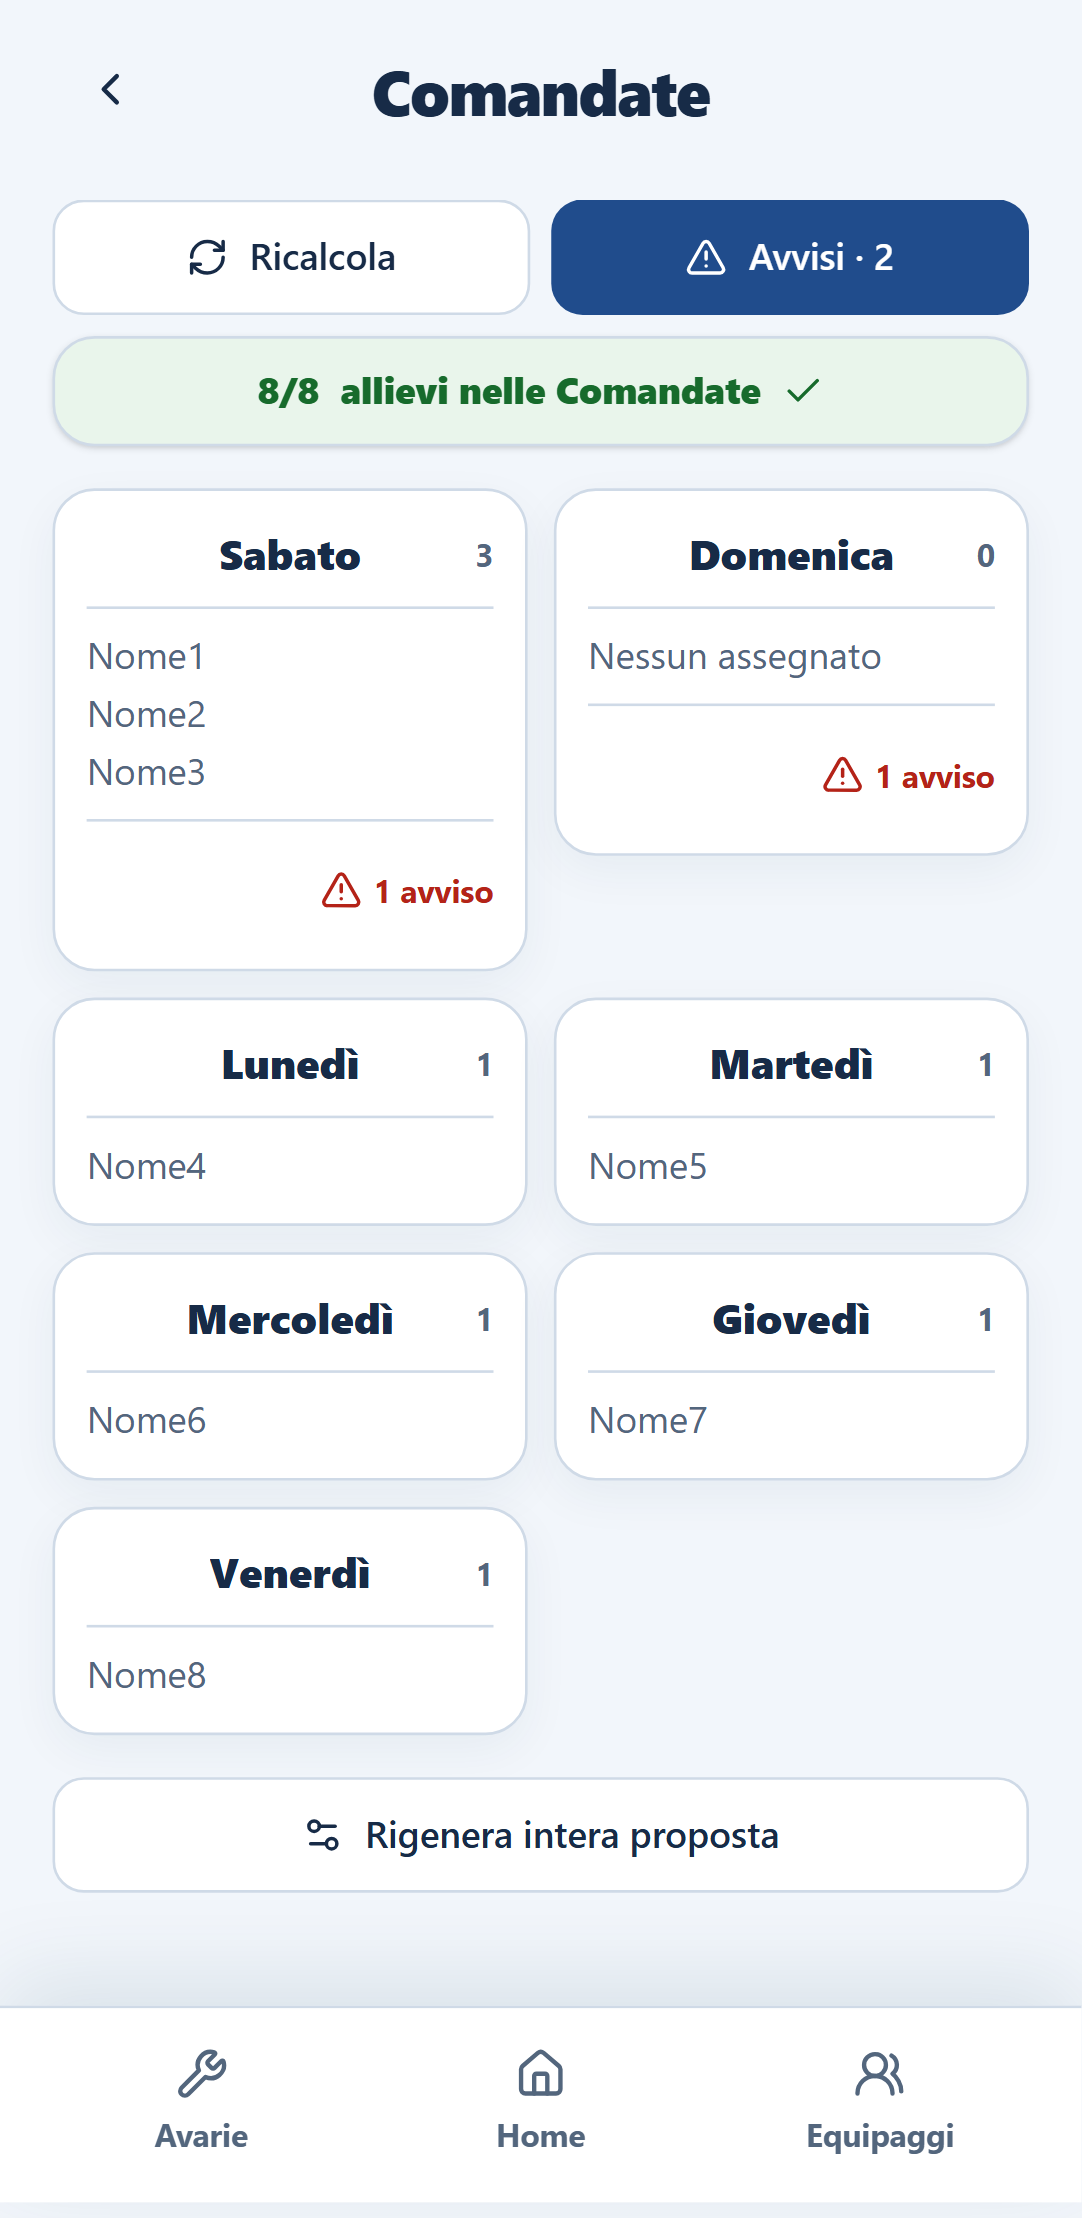
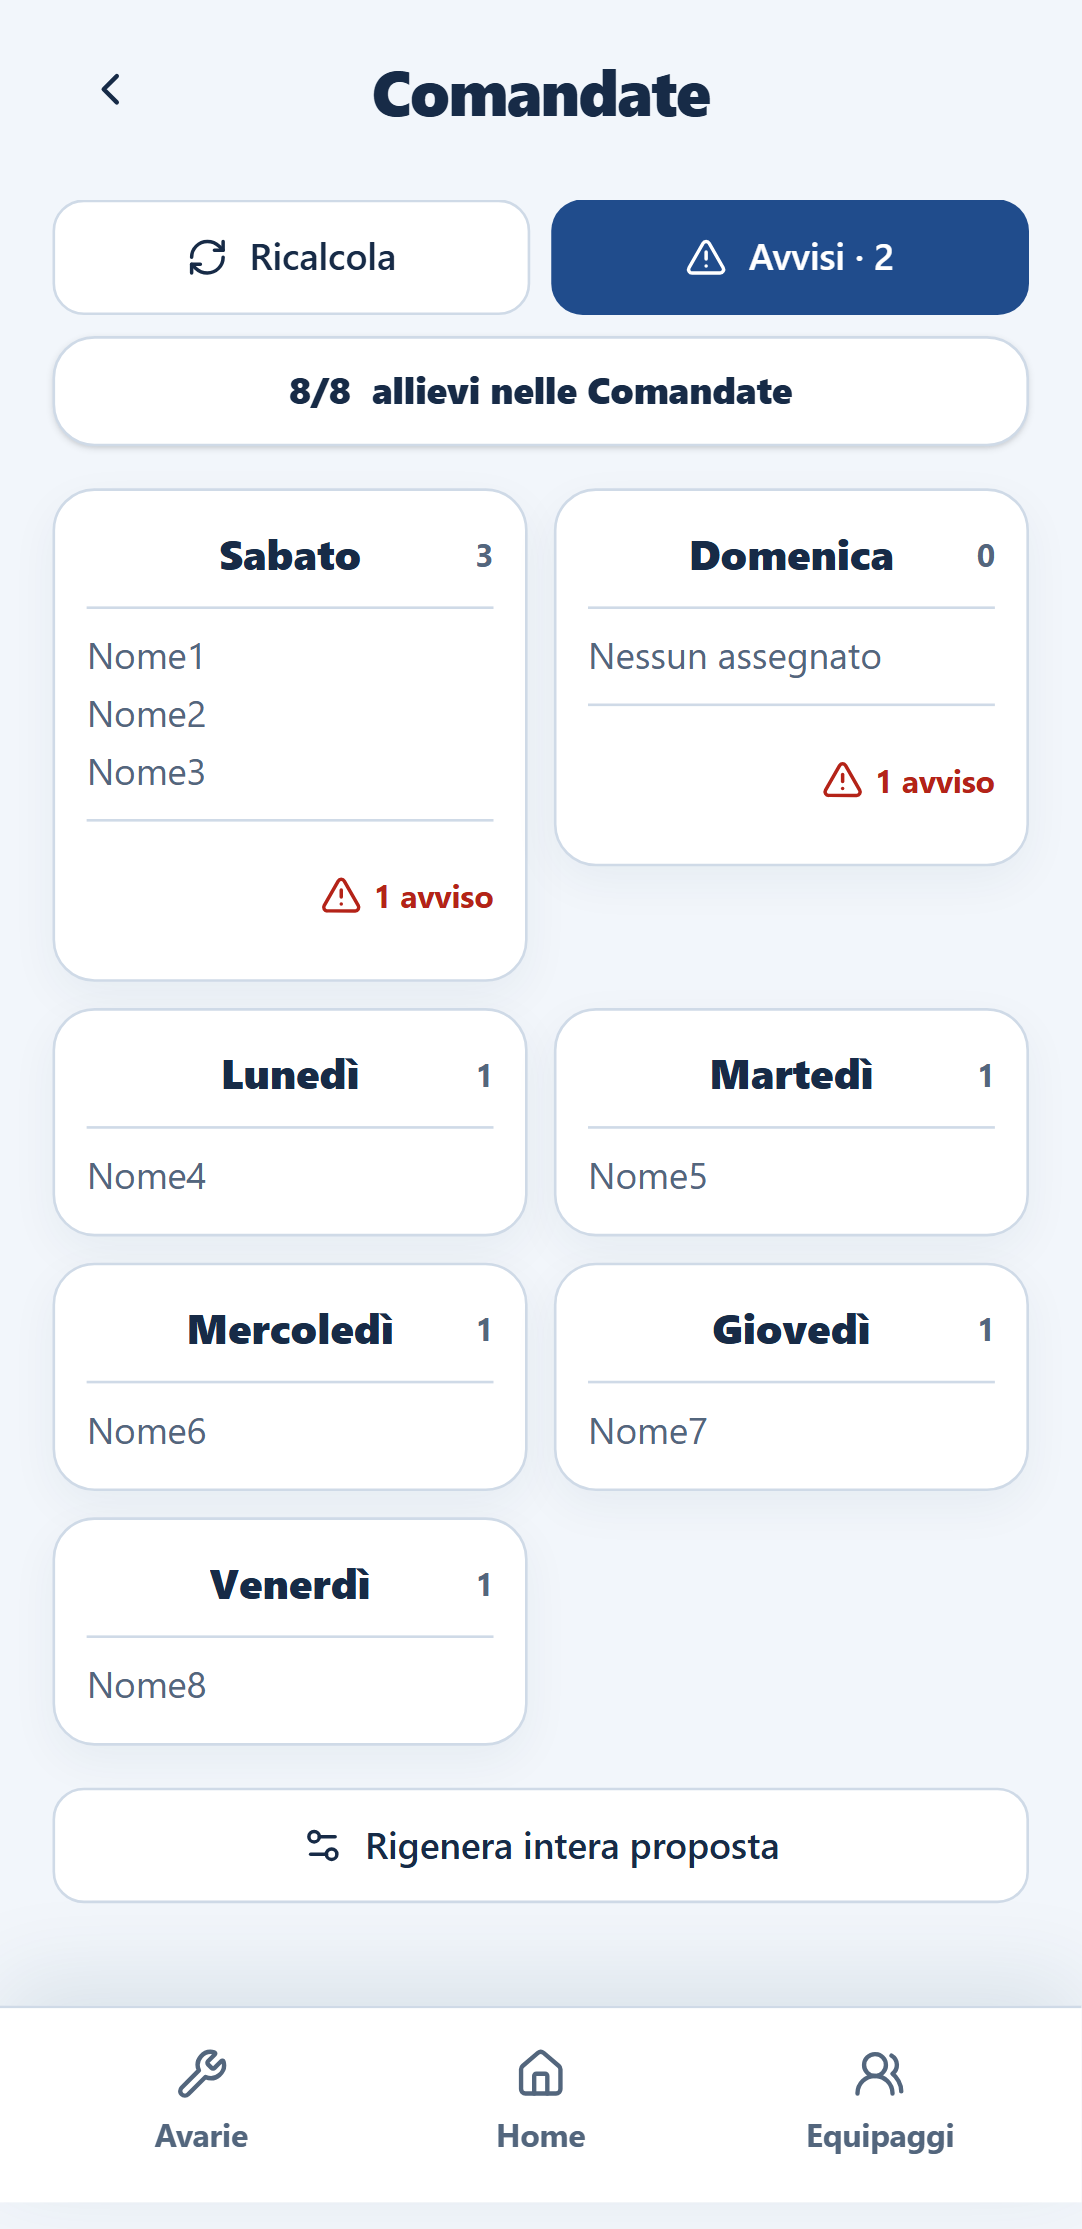
fix: satisfy U08 field review

diff --git a/src/features/duties/DutyManagement.tsx b/src/features/duties/DutyManagement.tsx
@@ -17,6 +17,7 @@ import {
   getDutyCoverage,
   getDutyDistributionRequirement,
   getDutyWarnings,
+  getVisibleDutyWarnings,
   groupDutyStudentsForDay,
   setStudentDutyForDay,
   type DutyAssignment,
@@ -577,6 +578,7 @@ function StudentAssignmentCard({
   entry,
   allStudents,
   completedDayIds,
+  referenceDate,
   current,
   completed,
   saving,
@@ -586,6 +588,7 @@ function StudentAssignmentCard({
   entry: DutyStudentDayGroupEntry
   allStudents: StudentRecord[]
   completedDayIds: readonly DutyDayId[]
+  referenceDate: string
   current: boolean
   completed: boolean
   saving: boolean
@@ -597,11 +600,11 @@ function StudentAssignmentCard({
   const hasMultipleDays = dayIds.length > 1
   return (
     <article
-      className={`flex min-w-0 items-center gap-1 rounded-2xl border bg-card p-1.5 shadow-[0_4px_14px_rgb(6_59_82/0.04)] ${hasMultipleDays ? "col-span-2" : ""}`}
+      className={`flex min-w-0 items-center gap-1 rounded-2xl border bg-card p-1.5 shadow-[0_4px_14px_rgb(6_59_82/0.04)] max-[350px]:gap-[2px] max-[350px]:p-[4px] ${hasMultipleDays ? "col-span-2 max-[350px]:col-span-1" : ""}`}
     >
       {current ? (
         <span
-          className="flex min-h-10 min-w-0 flex-1 items-center truncate px-1 text-left text-sm font-bold"
+          className="flex min-h-10 min-w-0 flex-1 items-center truncate px-1 text-left text-sm font-bold max-[350px]:min-h-[40px] max-[350px]:break-all max-[350px]:px-[2px] max-[350px]:whitespace-normal"
           title={name}
         >
           {name}
@@ -609,18 +612,28 @@ function StudentAssignmentCard({
       ) : (
         <button
           aria-label={name}
-          className="flex min-h-10 min-w-0 flex-1 items-center gap-1 rounded-xl px-1 text-left text-sm font-bold outline-none focus-visible:ring-3 focus-visible:ring-ring/40 max-[350px]:rounded-none max-[350px]:text-primary max-[350px]:shadow-[inset_2px_0_0_#b9d4ec]"
+          className="flex min-h-10 min-w-0 flex-1 items-center gap-1 rounded-xl px-1 text-left text-sm font-bold outline-none focus-visible:ring-3 focus-visible:ring-ring/40 max-[350px]:min-h-[40px] max-[350px]:min-w-[40px] max-[350px]:gap-[2px] max-[350px]:rounded-none max-[350px]:px-[2px] max-[350px]:text-primary max-[350px]:shadow-[inset_2px_0_0_#b9d4ec]"
           disabled={completed || saving}
           onClick={onAdd}
           title={name}
           type="button"
         >
-          <span className="min-w-0 flex-1 truncate">{name}</span>
+          <span className="min-w-0 flex-1 truncate max-[350px]:break-all max-[350px]:whitespace-normal">
+            {name}
+          </span>
           <Plus
             aria-hidden="true"
             className="size-4 shrink-0 text-primary max-[350px]:hidden"
           />
         </button>
+      )}
+      {isMinor(student.dateOfBirth, referenceDate) && (
+        <span
+          aria-label={`${name}, minorenne`}
+          className="grid size-4 shrink-0 place-items-center rounded-full bg-[#d33a4a] text-[9px] font-black text-white max-[350px]:size-[16px]"
+        >
+          M
+        </span>
       )}
       {student.active === 0 && (
         <span className="hidden shrink-0 text-[10px] font-bold text-muted-foreground min-[520px]:inline">
@@ -634,12 +647,12 @@ function StudentAssignmentCard({
           role="img"
         />
       )}
-      <div className="flex shrink-0 items-center gap-0.5">
+      <div className="flex shrink-0 items-center gap-0.5 max-[350px]:gap-[2px]">
         {dayIds.map((assignedDayId) => (
           <span className="flex items-center gap-0.5" key={assignedDayId}>
             <span
               aria-label={`${getDayLabel(assignedDayId)} assegnato`}
-              className="rounded-md bg-muted px-1.5 py-1 text-[10px] font-black text-muted-foreground"
+              className="rounded-md bg-muted px-1.5 py-1 text-[10px] font-black text-muted-foreground max-[350px]:px-[4px] max-[350px]:py-[2px]"
               title={getDayLabel(assignedDayId)}
             >
               {SHORT_DAY_LABELS[assignedDayId]}
@@ -647,7 +660,7 @@ function StudentAssignmentCard({
             {!completedDayIds.includes(assignedDayId) ? (
               <button
                 aria-label={`Rimuovi ${name} da ${getDayLabel(assignedDayId)}`}
-                className="grid size-10 place-items-center rounded-xl text-[#b42318] outline-none hover:bg-[#fff1ed] focus-visible:ring-3 focus-visible:ring-ring/40 disabled:opacity-40"
+                className="grid size-10 place-items-center rounded-xl text-[#b42318] outline-none hover:bg-[#fff1ed] focus-visible:ring-3 focus-visible:ring-ring/40 disabled:opacity-40 max-[350px]:size-[40px]"
                 disabled={completed || saving}
                 onClick={() => onRemove(assignedDayId)}
                 type="button"
@@ -668,6 +681,7 @@ function DayEditor({
   assignments,
   completedDayIds,
   completed,
+  referenceDate,
   onBack,
   onSave,
   onComplete,
@@ -677,6 +691,7 @@ function DayEditor({
   assignments: DutyAssignment[]
   completedDayIds: readonly DutyDayId[]
   completed: boolean
+  referenceDate: string
   onBack: () => void
   onSave: (assignments: DutyAssignment[]) => Promise<void>
   onComplete: () => Promise<void>
@@ -729,7 +744,7 @@ function DayEditor({
 
   function renderCards(entries: DutyStudentDayGroupEntry[], current: boolean) {
     return entries.length > 0 ? (
-      <div className="grid grid-cols-2 items-start gap-2">
+      <div className="grid grid-cols-2 items-start gap-2 max-[350px]:grid-cols-1 max-[350px]:gap-[4px]">
         {entries.map((entry) => (
           <StudentAssignmentCard
             allStudents={students}
@@ -745,6 +760,7 @@ function DayEditor({
               void updateAssignment(targetDayId, entry.student.id, false)
             }
             saving={saving}
+            referenceDate={referenceDate}
           />
         ))}
       </div>
@@ -971,10 +987,11 @@ export function DutyManagement({
         settings?.completedDayIds,
       )
     : []
-  const visibleWarningCount = warnings.filter(
-    ({ key, severity }) =>
-      severity === "major" || !settings?.acknowledgedWarningKeys.includes(key),
-  ).length
+  const visibleWarnings = getVisibleDutyWarnings(
+    warnings,
+    settings?.acknowledgedWarningKeys ?? [],
+  )
+  const visibleWarningCount = visibleWarnings.length
 
   async function persist(
     nextAssignments: DutyAssignment[],
@@ -1060,6 +1077,7 @@ export function DutyManagement({
           setScreen({ kind: "list" })
         }}
         onSave={(next) => persist(next, settings)}
+        referenceDate={referenceDate}
         students={students}
       />
     )
@@ -1160,16 +1178,13 @@ export function DutyManagement({
               return (
                 <div
                   aria-label={`Copertura comandate ${coverage.assigned}/${coverage.total}`}
-                  className={`flex items-center justify-center gap-2 rounded-2xl border px-4 py-2.5 text-sm font-black shadow-sm ${coverage.complete ? "border-[#b8dfbf] bg-[#e9f5eb] text-[#176b2c]" : "border-[#e9d37c] bg-[#fff7df] text-[#78550d]"}`}
+                  className={`flex items-center justify-center gap-2 rounded-2xl border px-4 py-2.5 text-sm font-black shadow-sm ${coverage.complete ? "bg-card text-foreground" : "border-[#e9d37c] bg-[#fff7df] text-[#78550d]"}`}
                   role="status"
                 >
                   <span>
                     {coverage.assigned}/{coverage.total}
                   </span>
                   <span>allievi nelle Comandate</span>
-                  {coverage.complete && (
-                    <Check aria-hidden="true" className="size-4" />
-                  )}
                 </div>
               )
             })()}
@@ -1202,8 +1217,11 @@ export function DutyManagement({
                 )
               const names = dayEntries.map(({ name }) => name)
               const completed = settings.completedDayIds.includes(id)
-              const dayWarnings = warnings.filter((warning) =>
+              const dayWarnings = visibleWarnings.filter((warning) =>
                 warningDayIds(warning).includes(id),
+              )
+              const dayHasMajorWarning = dayWarnings.some(
+                ({ severity }) => severity === "major",
               )
               return (
                 <article
@@ -1275,7 +1293,9 @@ export function DutyManagement({
                   {dayWarnings.length > 0 && (
                     <div className="mt-2 border-t pt-2">
                       <details>
-                        <summary className="flex min-h-9 cursor-pointer list-none items-center justify-end gap-1 text-xs font-bold text-[#b42318] outline-none focus-visible:ring-3 focus-visible:ring-ring/40">
+                        <summary
+                          className={`flex min-h-10 cursor-pointer list-none items-center justify-end gap-1 text-xs font-bold outline-none focus-visible:ring-3 focus-visible:ring-ring/40 ${dayHasMajorWarning ? "text-[#b42318]" : "text-[#996515]"}`}
+                        >
                           <AlertTriangle
                             aria-hidden="true"
                             className="size-4"
@@ -1288,7 +1308,7 @@ export function DutyManagement({
                         <div className="mt-2 grid gap-2">
                           {dayWarnings.map((warning) => (
                             <div
-                              className="rounded-xl bg-[#fff1ed] p-2 text-xs"
+                              className={`rounded-xl p-2 text-xs ${warning.severity === "major" ? "bg-[#fff1ed]" : "bg-[#fff7df]"}`}
                               key={warning.key}
                             >
                               <p className="font-black">{warning.title}</p>

diff --git a/tests/e2e/u08-duties.spec.ts b/tests/e2e/u08-duties.spec.ts
@@ -10,11 +10,13 @@ async function createCourse(page: Page) {
   await page.getByRole("button", { name: "Crea corso" }).click()
 }
 
-async function addStudents(page: Page, count: number) {
+async function addStudents(page: Page, count: number, longNames = false) {
   await page.getByRole("button", { name: "Allievi" }).click()
   for (let index = 1; index <= count; index += 1) {
     await page.getByRole("button", { name: "Aggiungi allievo" }).click()
-    await page.getByLabel("Nome", { exact: true }).fill(`Nome${index}`)
+    await page
+      .getByLabel("Nome", { exact: true })
+      .fill(longNames ? `NomeLunghissimo${index}` : `Nome${index}`)
     await page.getByLabel("Cognome", { exact: true }).fill(`Cognome${index}`)
     await page.getByLabel(/^Data di nascita/).fill("2000-01-01")
     await page
@@ -159,6 +161,61 @@ test("previews, confirms and edits duties directly from the seven day cards", as
     await mkdir(evidenceDirectory, { recursive: true })
     await page.screenshot({
       path: path.join(evidenceDirectory, "u08-p11-p13-pixel-7.png"),
+      fullPage: true,
+    })
+  }
+})
+
+test("keeps long-name P13 cards readable and tappable at 320px and 200% text", async ({
+  page,
+}, testInfo) => {
+  test.setTimeout(180_000)
+  await page.setViewportSize({ width: 320, height: 664 })
+  await createCourse(page)
+  await addStudents(page, 8, true)
+  await page.getByRole("button", { name: "Comandate" }).click()
+  await page.getByRole("button", { name: "Proponi comandate" }).click()
+  await page.getByRole("button", { name: "Conferma proposta" }).click()
+  await page.getByRole("button", { name: /^Sabato, \d+ assegnati/ }).click()
+  await page.evaluate(() => {
+    document.documentElement.style.fontSize = "200%"
+  })
+
+  expect(
+    await page.evaluate(() => document.documentElement.scrollWidth),
+  ).toBeLessThanOrEqual(320)
+  const cards = page
+    .getByRole("region", { name: "Allievi comandata Sabato" })
+    .locator("article")
+  await expect(cards).toHaveCount(8)
+  const overflows = await cards.evaluateAll(
+    (elements) =>
+      elements.filter(
+        (element) => element.scrollWidth > element.clientWidth + 1,
+      ).length,
+  )
+  expect(overflows).toBe(0)
+  const addButtons = page
+    .getByRole("region", { name: "Allievi comandata Sabato" })
+    .getByRole("button", { name: /^NomeLunghissimo/ })
+  for (const button of await addButtons.all()) {
+    const box = await button.boundingBox()
+    expect(box).not.toBeNull()
+    expect(box!.width).toBeGreaterThanOrEqual(40)
+    expect(box!.height).toBeGreaterThanOrEqual(40)
+  }
+  const removeButton = page
+    .getByRole("button", {
+      name: /Rimuovi NomeLunghissimo.* da Sabato/,
+    })
+    .first()
+  const removeBox = await removeButton.boundingBox()
+  expect(removeBox).not.toBeNull()
+  expect(removeBox!.width).toBeGreaterThanOrEqual(40)
+  expect(removeBox!.height).toBeGreaterThanOrEqual(40)
+  if (testInfo.project.name === "pixel-7-chrome") {
+    await page.screenshot({
+      path: path.resolve(".evidence/U08/u08-p13-stress-pixel-7.png"),
       fullPage: true,
     })
   }

diff --git a/src/features/duties/DutyManagement.test.tsx b/src/features/duties/DutyManagement.test.tsx
@@ -121,6 +121,9 @@ describe("DutyManagement", () => {
       .closest("button")
     expect(minorDayCard).not.toBeNull()
     expect(within(minorDayCard!).getByText("M", { exact: true })).toBeVisible()
+    expect(
+      screen.getByRole("status", { name: "Copertura comandate 8/8" }),
+    ).toHaveClass("bg-card")
   })
 
   it("keeps preview generation non-mutating and gates the exact remainder", async () => {
@@ -336,6 +339,11 @@ describe("DutyManagement", () => {
     const studentButton = within(
       screen.getByRole("region", { name: "Allievi comandata Domenica" }),
     ).getByRole("button", { name: /^Nome1$/ })
+    expect(
+      within(
+        screen.getByRole("region", { name: "Allievi comandata Domenica" }),
+      ).getByLabelText("Nome1, minorenne"),
+    ).toBeVisible()
     await user.click(studentButton)
     await waitFor(() => expect(savePlan).toHaveBeenCalledOnce())
     expect(savePlan.mock.calls[0]![1]).toEqual(
@@ -358,7 +366,14 @@ describe("DutyManagement", () => {
         { dayId: "friday", studentId: "student-7" },
         { dayId: "friday", studentId: "student-8" },
       ],
-      settings: { ...SETTINGS, stayOverStudentIds: ["student-1"] },
+      settings: {
+        ...SETTINGS,
+        extraDayIds: ["friday"],
+        fewerDayIds: DUTY_DAYS.map(({ id }) => id).filter(
+          (id) => id !== "friday",
+        ),
+        stayOverStudentIds: ["student-1"],
+      },
     })
     const user = userEvent.setup()
     render(
@@ -368,6 +383,15 @@ describe("DutyManagement", () => {
         referenceDate="2026-08-29"
       />,
     )
+
+    const fridayCard = await screen.findByRole("button", {
+      name: /Venerdì, 2 assegnati/,
+    })
+    const advisorySummary = within(fridayCard.closest("article")!).getByText(
+      "1 avviso",
+    ).parentElement
+    expect(advisorySummary).toHaveClass("text-[#996515]")
+    expect(advisorySummary).not.toHaveClass("text-[#b42318]")
 
     await user.click(await screen.findByRole("button", { name: /Avvisi/ }))
     expect(screen.getByText("Preferenza venerdì non soddisfatta")).toBeVisible()
@@ -386,6 +410,9 @@ describe("DutyManagement", () => {
     await user.click(
       screen.getByRole("button", { name: "Indietro da Avvisi comandate" }),
     )
+    expect(
+      screen.queryByText("Preferenza venerdì non soddisfatta"),
+    ).not.toBeInTheDocument()
     await user.click(
       screen.getByRole("button", { name: /Sabato, 1 assegnati/ }),
     )
